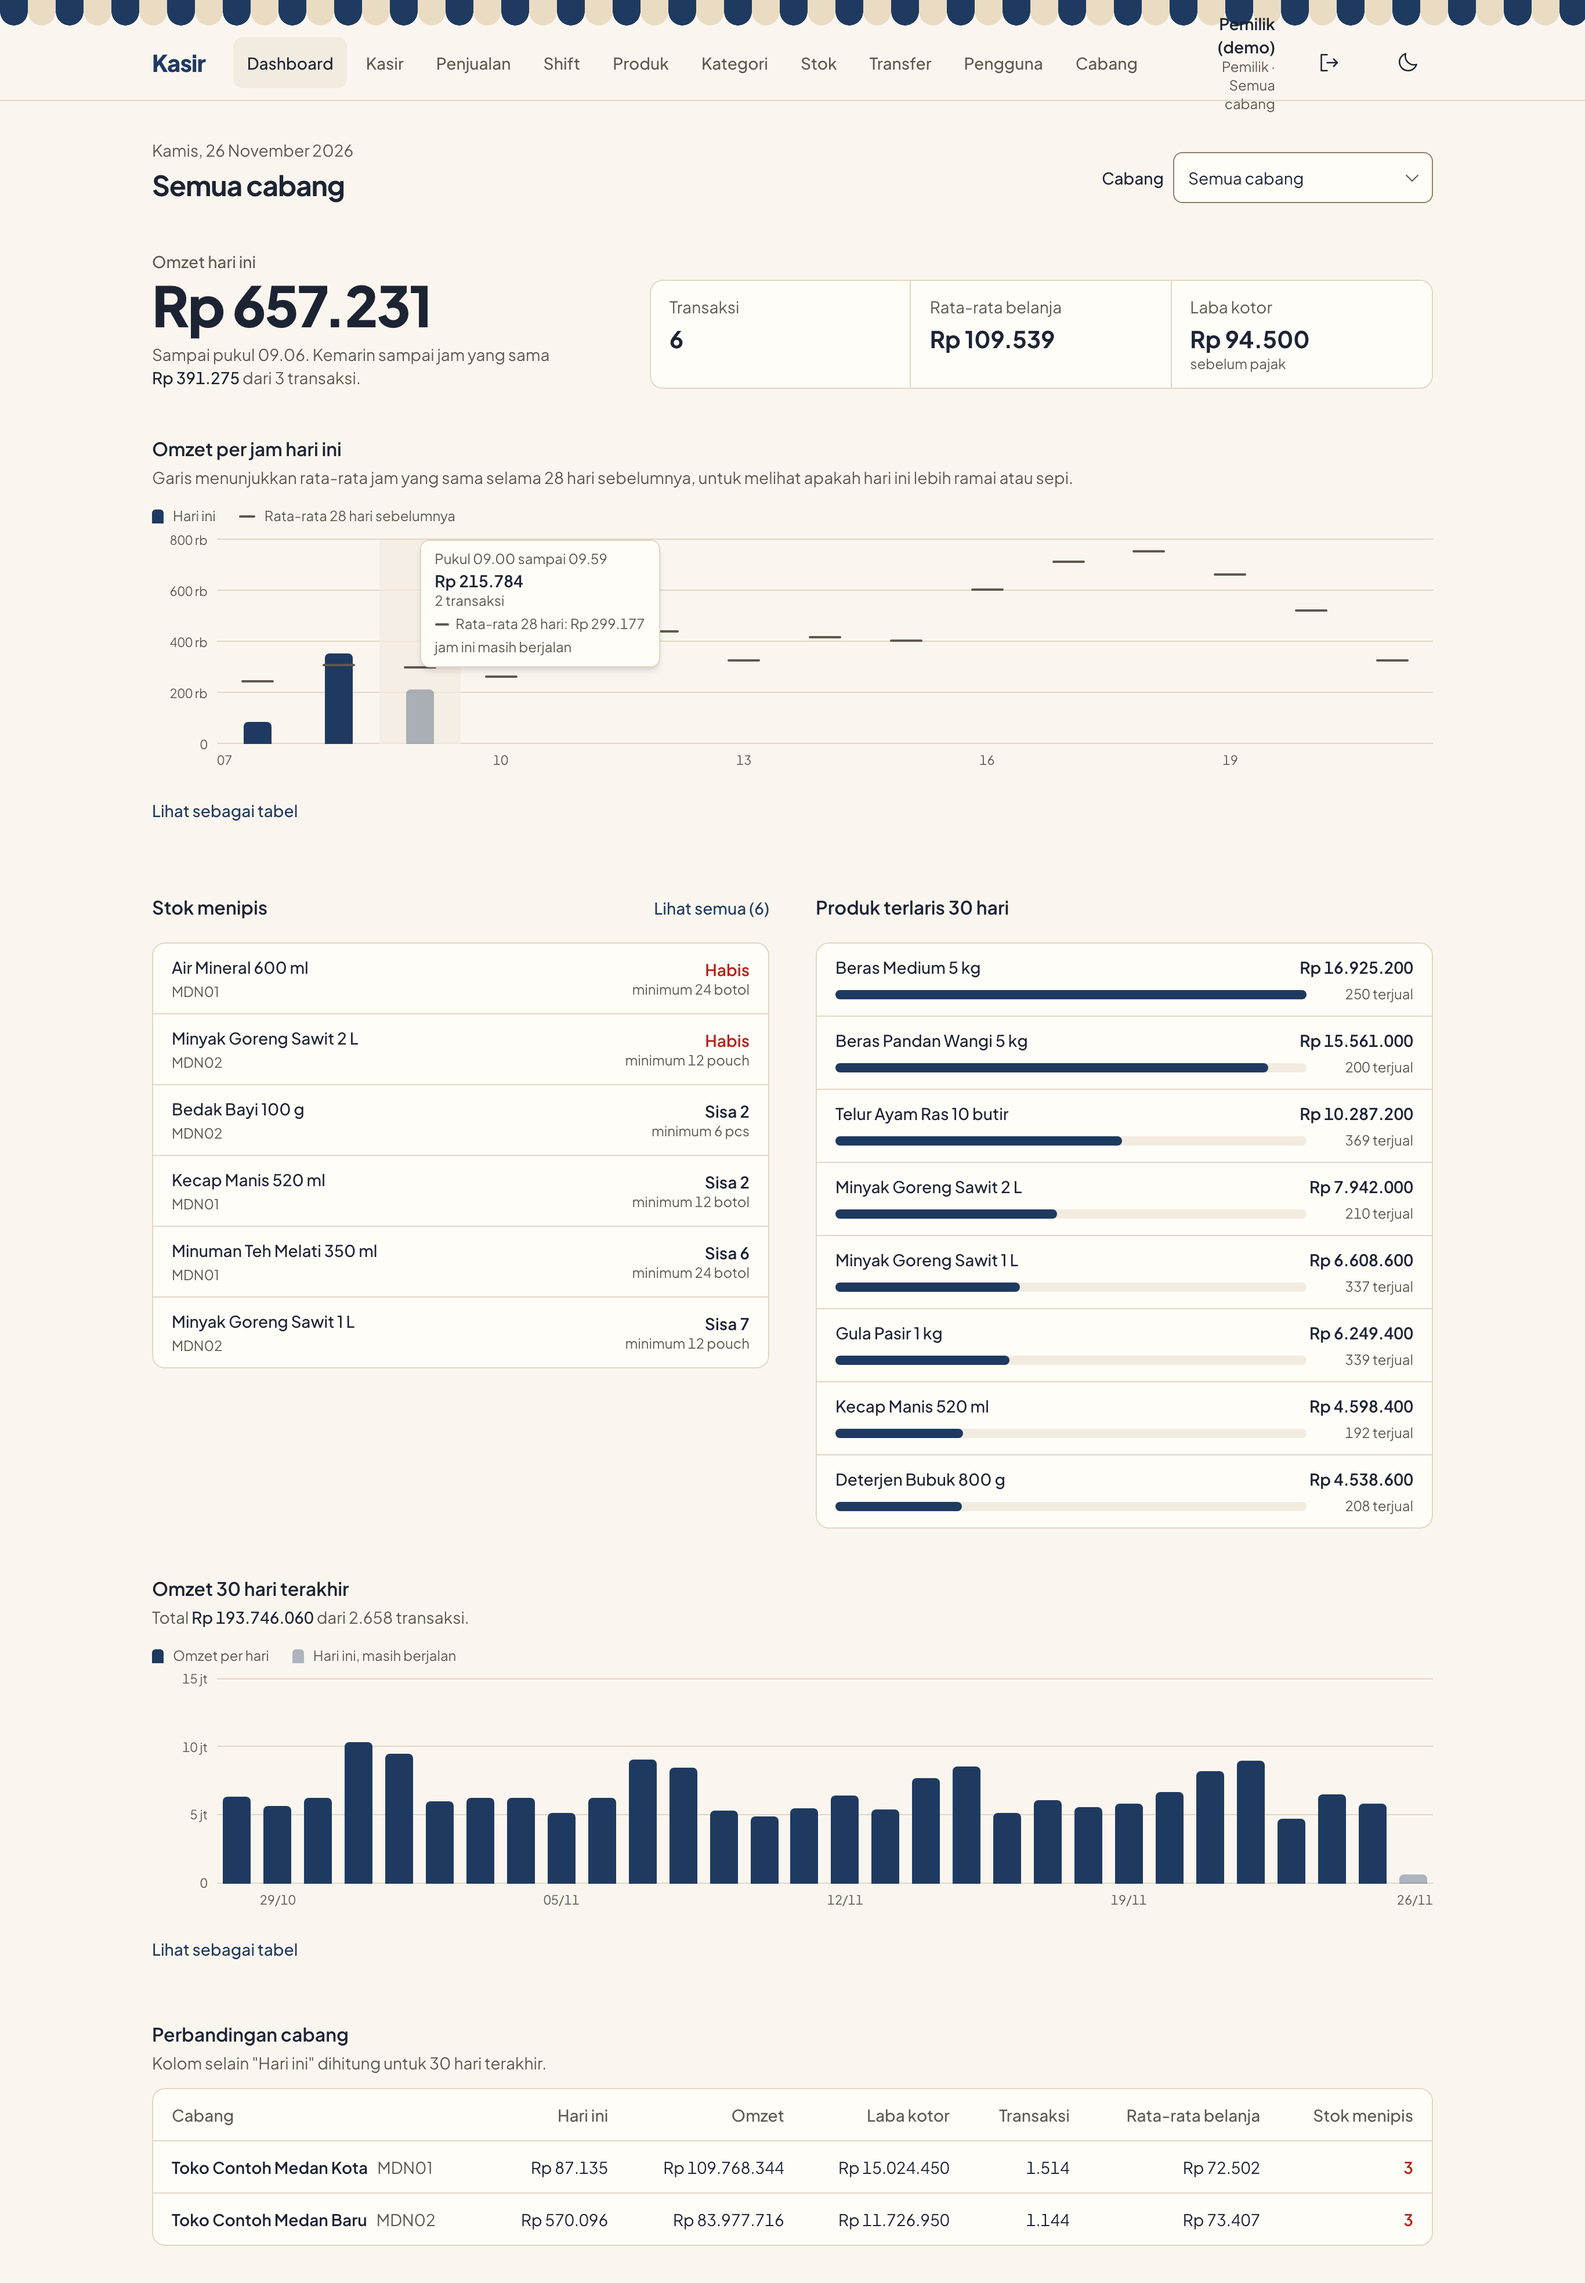
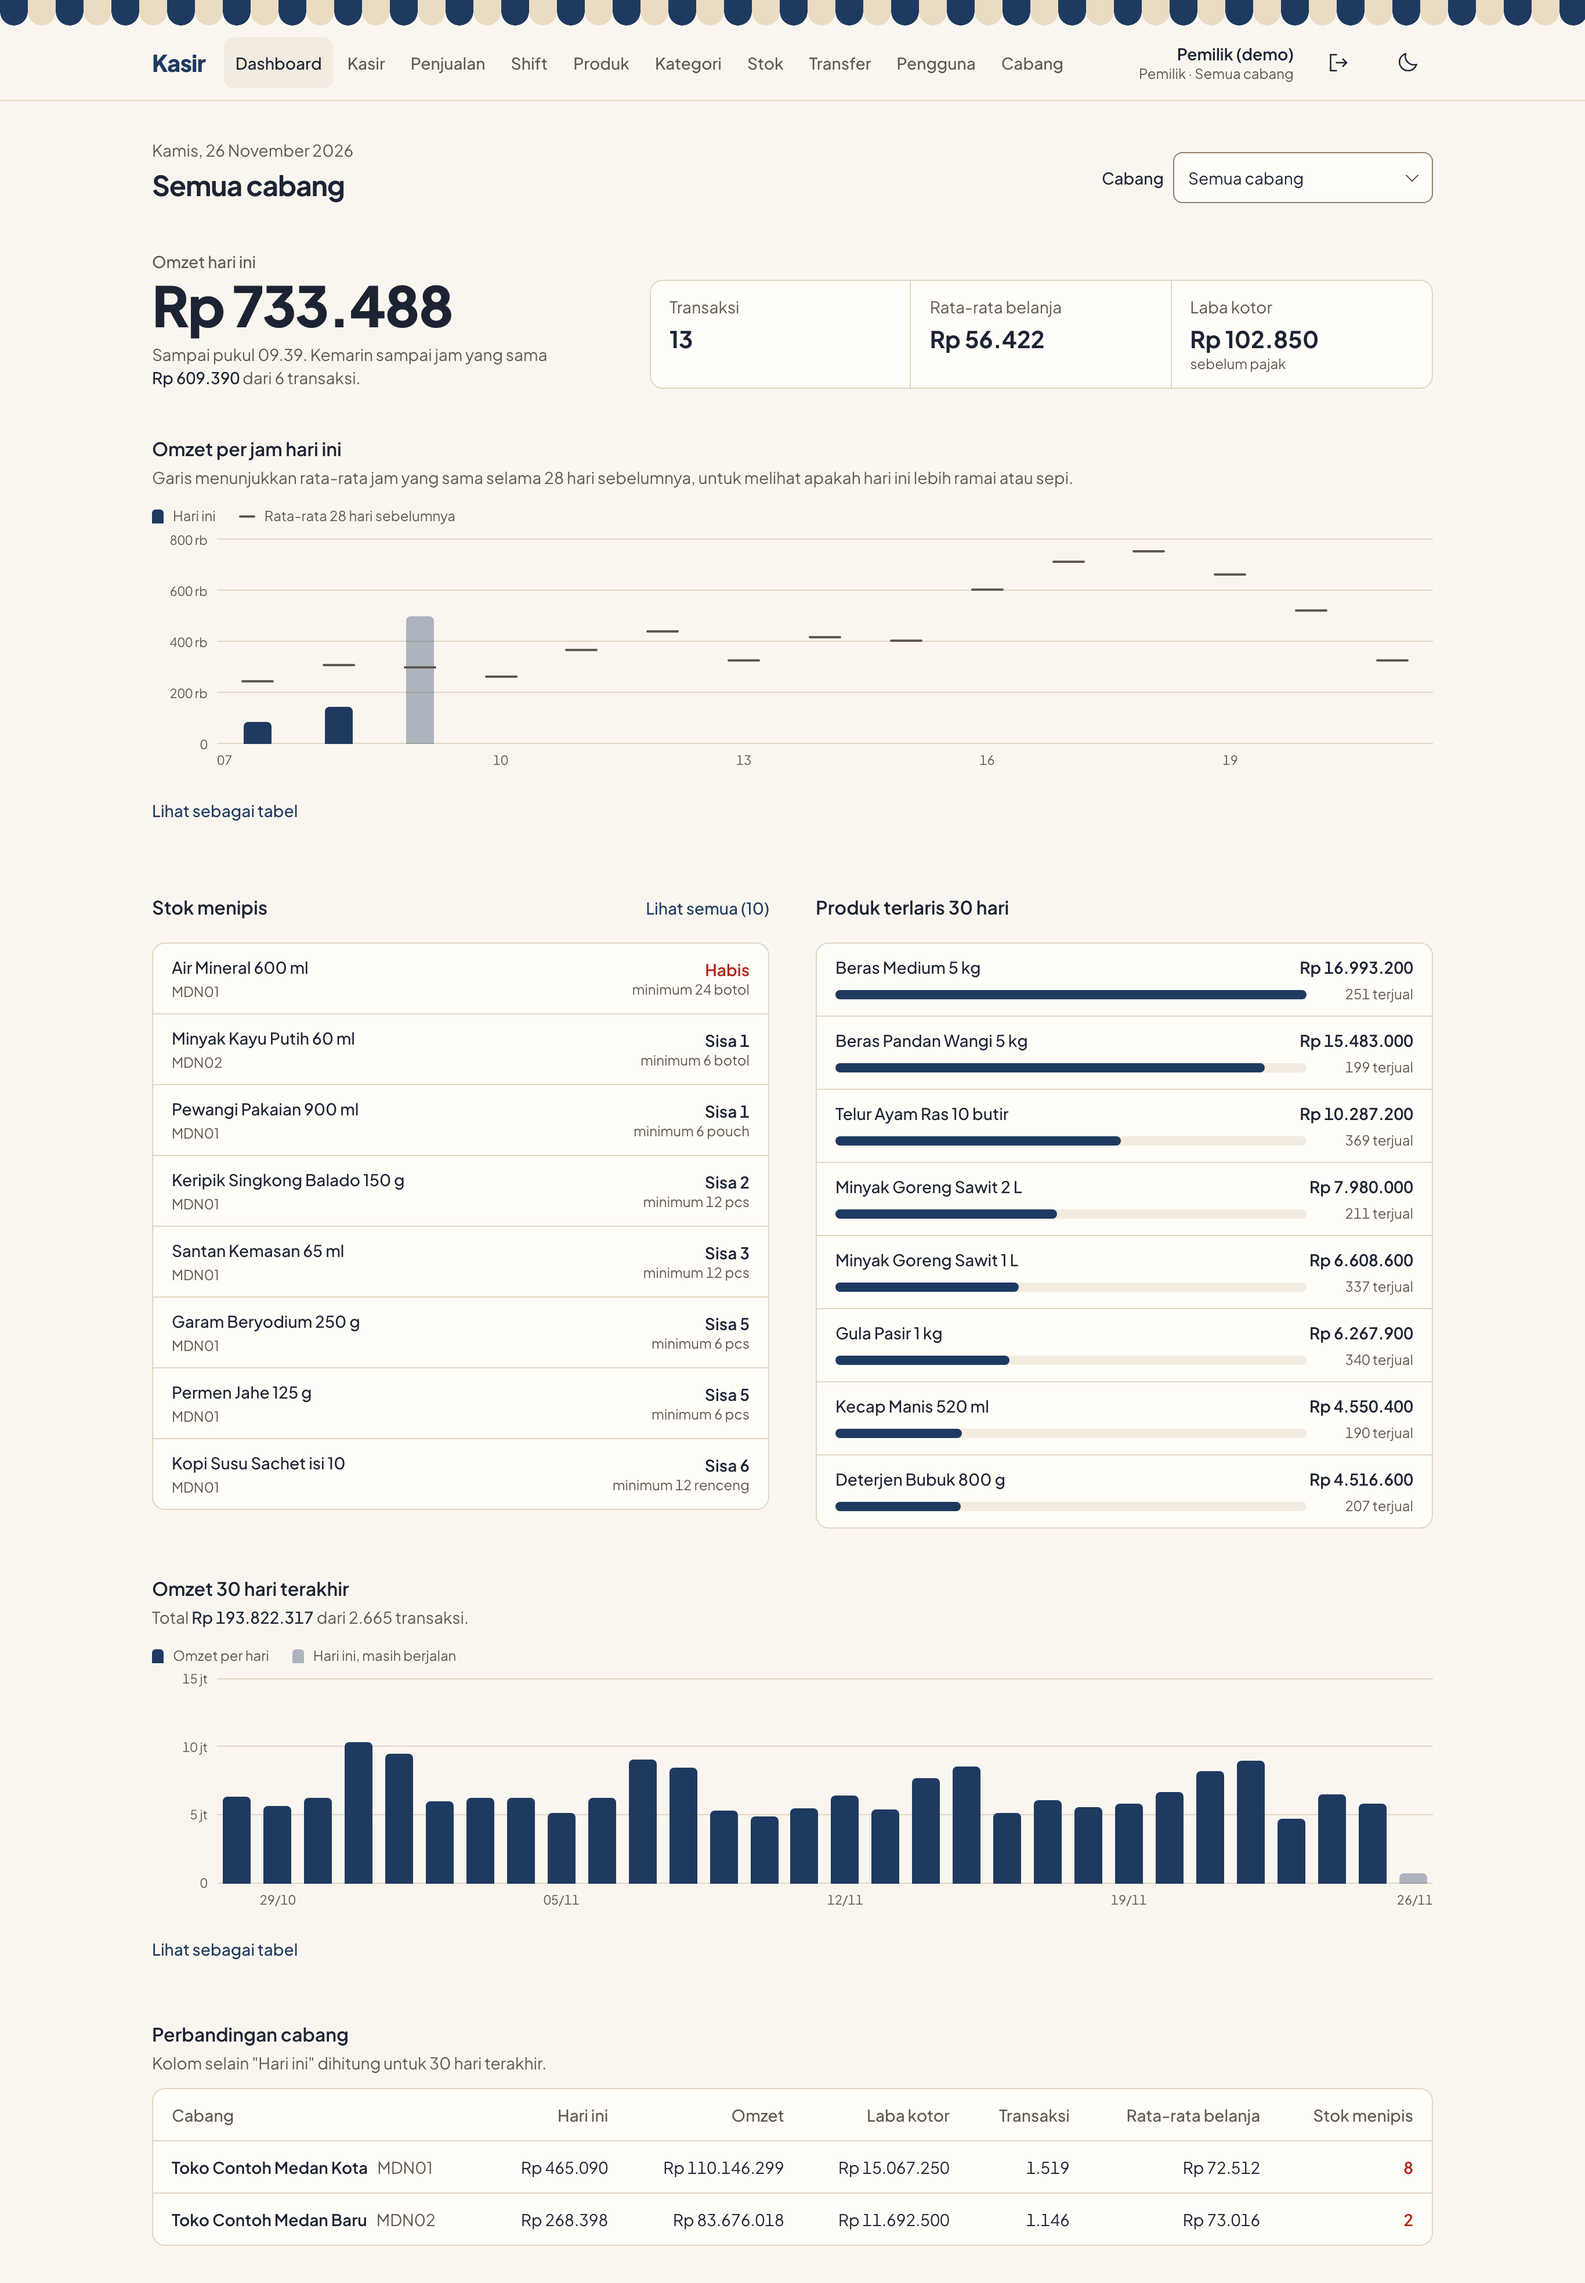
fix: nama pengguna di header tidak lagi patah baris pada menu panjang
Menu Pemilik (10 item) menyisakan ruang sempit sehingga nama dan peran
terpecah empat baris di 1440 px. Nama kini satu baris, tampil mulai xl
bila menu lebih dari 6 item, dan jarak menu dirapatkan.

diff --git a/components/app-shell.tsx b/components/app-shell.tsx
@@ -18,7 +18,7 @@ export function AppShell({ children, wide = false }: { children: React.ReactNode
     <div className={wide ? "flex min-h-dvh flex-col lg:h-dvh" : "flex min-h-dvh flex-col"}>
       <div aria-hidden className="awning shrink-0 print:hidden" />
       <header className="relative shrink-0 border-b print:hidden">
-        <div className={`mx-auto flex h-16 w-full items-center gap-3 px-4 sm:gap-6 sm:px-6 ${wide ? "" : "max-w-6xl"}`}>
+        <div className={`mx-auto flex h-16 w-full items-center gap-3 px-4 sm:gap-6 sm:px-6 lg:gap-4 ${wide ? "" : "max-w-6xl"}`}>
           <Wordmark />
           {/* Bagian yang bergantung pada session dirender per request; sisanya ikut static shell. */}
           <Suspense fallback={<div className="flex-1" />}>
@@ -37,15 +37,17 @@ export function AppShell({ children, wide = false }: { children: React.ReactNode
 async function HeaderSession() {
   const user = await requireUser();
   const place = user.branch?.name ?? "Semua cabang";
+  const items = navFor(user.role);
 
   return (
     <>
-      <div className="flex-1">
-        <NavLinks items={navFor(user.role)} />
+      <div className="min-w-0 flex-1">
+        <NavLinks items={items} />
       </div>
-      <div className="hidden text-right leading-tight lg:block">
-        <p className="text-sm font-semibold">{user.name}</p>
-        <p className="text-xs text-muted-foreground">
+      {/* Menu panjang (Pemilik: 10 item) tidak menyisakan ruang untuk nama di bawah xl. */}
+      <div className={`hidden min-w-0 text-right leading-tight whitespace-nowrap ${items.length > 6 ? "xl:block" : "lg:block"}`}>
+        <p className="truncate text-sm font-semibold">{user.name}</p>
+        <p className="truncate text-xs text-muted-foreground">
           {ROLE_LABEL[user.role]} · {place}
         </p>
       </div>

diff --git a/components/nav-links.tsx b/components/nav-links.tsx
@@ -9,7 +9,7 @@ import { cn } from "@/lib/utils";
 import type { NavItem } from "@/lib/nav";
 
 const linkBase =
-  "inline-flex h-11 items-center rounded-lg px-3 text-sm font-medium text-muted-foreground outline-none transition-colors hover:bg-accent hover:text-foreground focus-visible:ring-3 focus-visible:ring-ring/50";
+  "inline-flex h-11 items-center rounded-lg px-2.5 text-sm whitespace-nowrap font-medium text-muted-foreground outline-none transition-colors hover:bg-accent hover:text-foreground focus-visible:ring-3 focus-visible:ring-ring/50";
 
 function isActive(pathname: string, href: string) {
   return pathname === href || pathname.startsWith(`${href}/`);
@@ -38,7 +38,7 @@ export function NavLinks({ items }: { items: NavItem[] }) {
 
   return (
     <>
-      <nav aria-label="Navigasi utama" className="hidden items-center gap-1 lg:flex">
+      <nav aria-label="Navigasi utama" className="hidden items-center gap-0.5 lg:flex">
         {items.map((item) => {
           const active = isActive(pathname, item.href);
           return (
